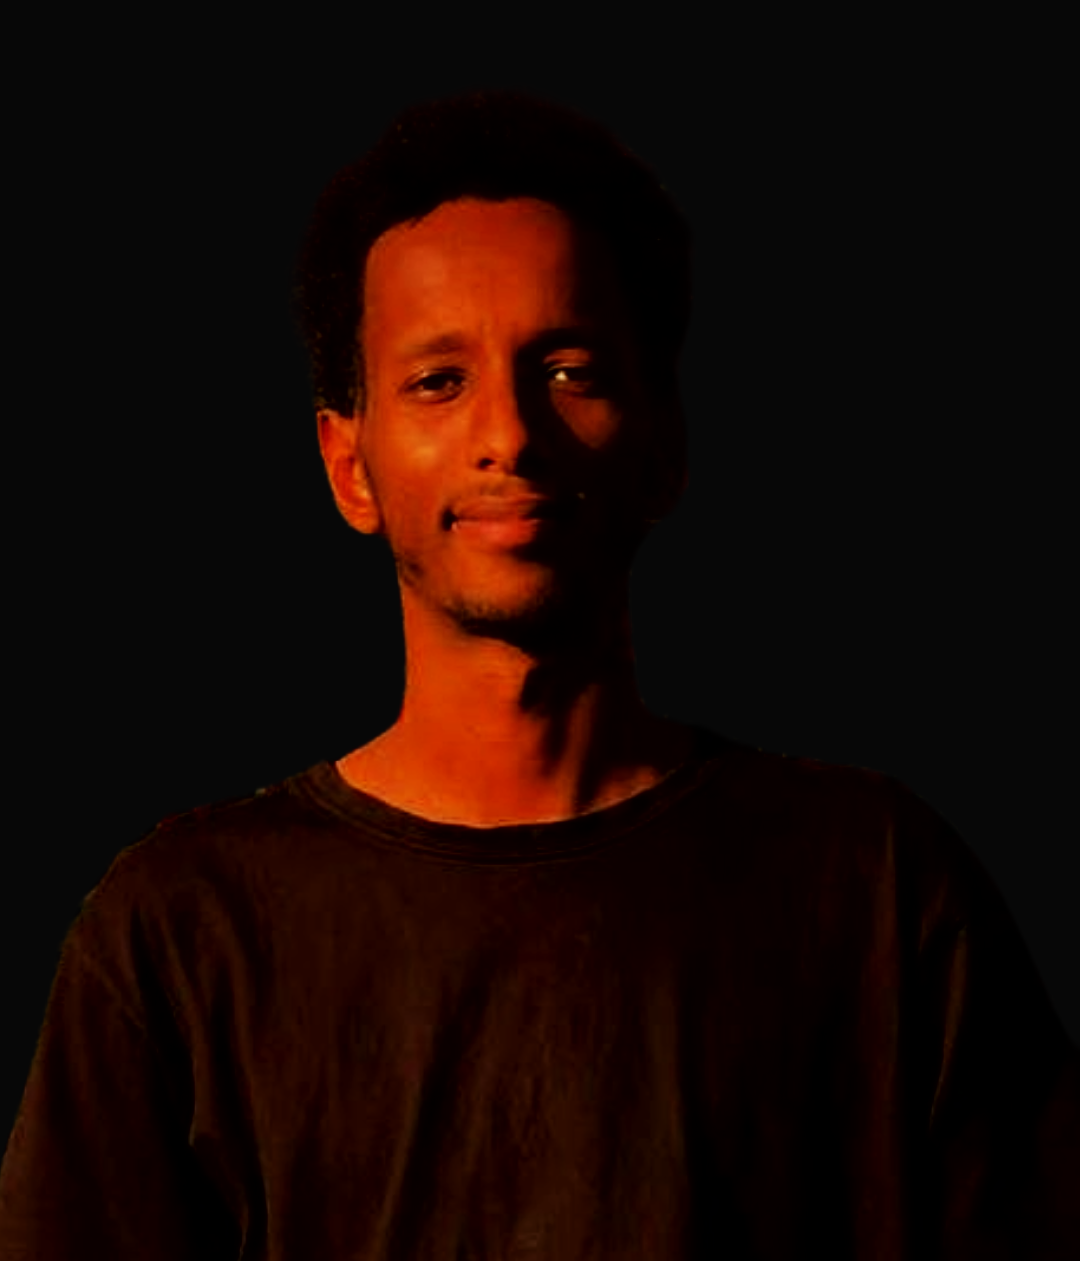
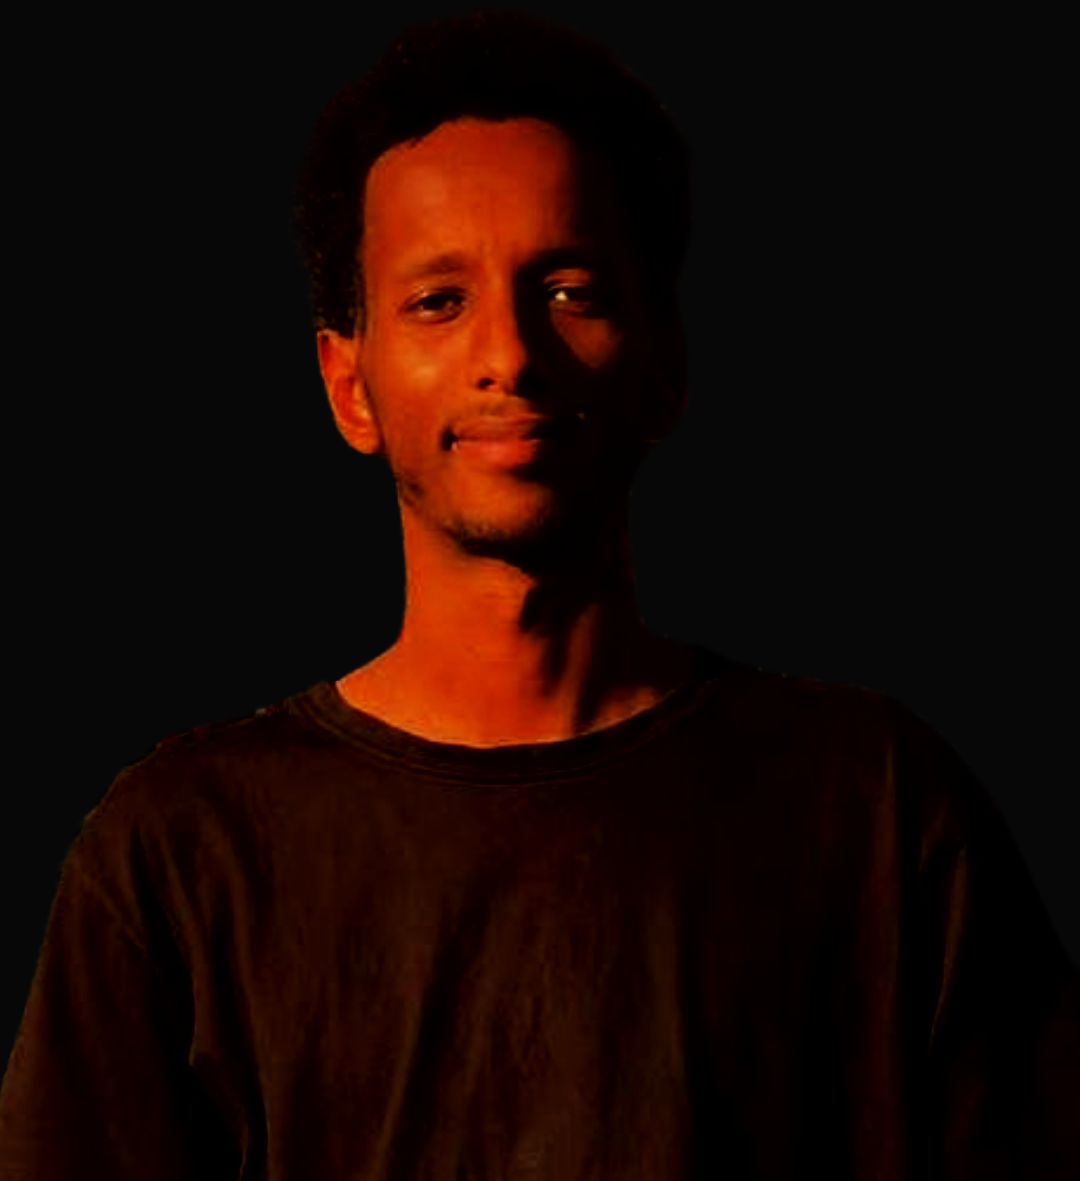
Finished About page UI

Changed region(s): [[0.2444, 0.0914, 0.6111, 0.6706], [0.0611, 0.6401, 0.1528, 0.7316]]

diff --git a/src/components/About_body.js b/src/components/About_body.js
@@ -1,0 +1,46 @@
+import React from "react";
+import Square from "./sub-components/Square";
+import './css/About_body.css';
+import me from '../assets/images/me.png';
+
+function About_body() {
+    return(
+        <>
+            <div className="about-body">
+                <div className="about-title">
+                    <h1>About Me</h1>
+                </div>
+                <div className="about-content">
+                    <div className="about-box1">
+                        <div className="about-square_space">
+                            <div className="invisible"></div>
+                            <div className="invisible"></div>
+                            <Square/>
+                        </div>
+                        <div className="about-image">
+                            <img src={me} alt="Dagy's Picture"/>
+                        </div>
+                    </div>
+                    <div className="about-line"></div>
+                    <div className="about-box2">
+                        <div className="about-paragraph">
+                            <p>
+                            My name is Dagim Teshome, a passionate software developer based in Addis Ababa, Ethiopia.
+                            Currently, I am a third-year Software Engineering student at Bits College. I specialize in web
+                            development and have a strong interest in creating dynamic and user-friendly web applications.
+                            Outside of coding, I enjoy playing lead guitar, combining my technical and creative skills in both
+                            music and software development.
+                            <br/><br/>
+                            I am available for freelance. All you have to do is contact me here:
+                            </p>
+                        </div>
+                        <div className="about-button">
+                            <a href="/" >Contact<svg xmlns="http://www.w3.org/2000/svg" width="15px" viewBox="0 0 448 512"><path fill="#ffffff" d="M224 256A128 128 0 1 0 224 0a128 128 0 1 0 0 256zm-45.7 48C79.8 304 0 383.8 0 482.3C0 498.7 13.3 512 29.7 512H418.3c16.4 0 29.7-13.3 29.7-29.7C448 383.8 368.2 304 269.7 304H178.3z"/></svg></a>
+                        </div>
+                    </div>
+                </div>
+            </div>
+        </>
+    );
+}
+export default About_body;

diff --git a/src/components/Home_body.js b/src/components/Home_body.js
@@ -2,6 +2,7 @@ import React from "react";
 import './css/Home_body.css';
 import me from '../assets/images/me.png'
 import Square from "./sub-components/Square";
+import { FontAwesomeIcon } from "@fortawesome/react-fontawesome";
 
 function Home_body() {
     return(
@@ -24,7 +25,7 @@ function Home_body() {
                         </box>
                     </div>
                     <div className="item4">
-                    <i class="fa-solid fa-car"></i>
+                    <a href=""><svg xmlns="http://www.w3.org/2000/svg" width="35px" viewBox="0 0 496 512"><path fill="#ffff" d="M165.9 397.4c0 2-2.3 3.6-5.2 3.6-3.3 .3-5.6-1.3-5.6-3.6 0-2 2.3-3.6 5.2-3.6 3-.3 5.6 1.3 5.6 3.6zm-31.1-4.5c-.7 2 1.3 4.3 4.3 4.9 2.6 1 5.6 0 6.2-2s-1.3-4.3-4.3-5.2c-2.6-.7-5.5 .3-6.2 2.3zm44.2-1.7c-2.9 .7-4.9 2.6-4.6 4.9 .3 2 2.9 3.3 5.9 2.6 2.9-.7 4.9-2.6 4.6-4.6-.3-1.9-3-3.2-5.9-2.9zM244.8 8C106.1 8 0 113.3 0 252c0 110.9 69.8 205.8 169.5 239.2 12.8 2.3 17.3-5.6 17.3-12.1 0-6.2-.3-40.4-.3-61.4 0 0-70 15-84.7-29.8 0 0-11.4-29.1-27.8-36.6 0 0-22.9-15.7 1.6-15.4 0 0 24.9 2 38.6 25.8 21.9 38.6 58.6 27.5 72.9 20.9 2.3-16 8.8-27.1 16-33.7-55.9-6.2-112.3-14.3-112.3-110.5 0-27.5 7.6-41.3 23.6-58.9-2.6-6.5-11.1-33.3 2.6-67.9 20.9-6.5 69 27 69 27 20-5.6 41.5-8.5 62.8-8.5s42.8 2.9 62.8 8.5c0 0 48.1-33.6 69-27 13.7 34.7 5.2 61.4 2.6 67.9 16 17.7 25.8 31.5 25.8 58.9 0 96.5-58.9 104.2-114.8 110.5 9.2 7.9 17 22.9 17 46.4 0 33.7-.3 75.4-.3 83.6 0 6.5 4.6 14.4 17.3 12.1C428.2 457.8 496 362.9 496 252 496 113.3 383.5 8 244.8 8zM97.2 352.9c-1.3 1-1 3.3 .7 5.2 1.6 1.6 3.9 2.3 5.2 1 1.3-1 1-3.3-.7-5.2-1.6-1.6-3.9-2.3-5.2-1zm-10.8-8.1c-.7 1.3 .3 2.9 2.3 3.9 1.6 1 3.6 .7 4.3-.7 .7-1.3-.3-2.9-2.3-3.9-2-.6-3.6-.3-4.3 .7zm32.4 35.6c-1.6 1.3-1 4.3 1.3 6.2 2.3 2.3 5.2 2.6 6.5 1 1.3-1.3 .7-4.3-1.3-6.2-2.2-2.3-5.2-2.6-6.5-1zm-11.4-14.7c-1.6 1-1.6 3.6 0 5.9 1.6 2.3 4.3 3.3 5.6 2.3 1.6-1.3 1.6-3.9 0-6.2-1.4-2.3-4-3.3-5.6-2z"/></svg></a>
                     <a href="/">Github link</a>
                     </div>
                 </div>

diff --git a/src/components/css/About_body.css b/src/components/css/About_body.css
@@ -1,0 +1,103 @@
+.about-body {
+    width: 100%;
+    background-color: #070707;
+    height: 70vh;
+    display: flex;
+    align-items: flex-start;
+    flex-direction: column;
+}
+.about-title {
+    width: 100%;
+    height: 20%;
+    color: white;
+    display: flex;
+    justify-content: center;
+    align-items: center;
+}
+.about-title h1 {
+    font-size: 45px;
+}
+.about-content {
+    width: 100%;
+    height: 80%;
+    display: flex;
+    justify-content: space-around;
+}
+.about-box1 {
+    width: 45%;
+    height: 100%;
+    display: flex;
+    justify-content: center;
+    align-items: end;
+    flex-direction: column;
+}
+.about-box2 {
+    width: 50%;
+    height: 100%;
+    display: flex;
+    justify-content: center;
+    flex-direction: column;
+}
+.about-box1 img {
+    height: 350px;
+}
+.about-square_space {
+    width: 100%;
+    height: 0%;
+    display: flex;
+    justify-content: space-around;
+    margin-right: 25px;
+}
+.about-square_space .invisible {
+    width: 40px;
+    height: 40px;
+    visibility: hidden;
+}
+.about-line {
+    height: 80%;
+    width: 2px;
+    background-color: white;
+}
+
+.about-image {
+    width: 100%;
+    height: 100%;
+    display: flex;
+    justify-content: center;
+    align-items: end;
+}
+
+.about-paragraph {
+    width: 90%;
+    height: 50%;
+    color: white;
+    display: flex;
+    align-items: flex-end;
+}
+.about-paragraph p {
+    font-size: 12px;
+    line-height: 20px;
+}
+.about-button {
+    width: 65%;
+    height: 25%;
+    display: flex;
+    justify-content: flex-end;
+    align-items: center;
+}
+.about-button a {
+    color: white;
+    text-decoration: none;
+    border: 1px solid #C34600;
+    padding: 10px 30px;
+    background-color: #C34600;
+    border-radius: 50px;
+}
+.about-button a:hover {
+    background-color: #ff5e00;
+    transition: 0.3s ease;
+    border-radius: 10px;
+}
+.about-button a svg {
+    margin-left: 4px;
+}

diff --git a/src/components/css/Home_body.css b/src/components/css/Home_body.css
@@ -42,9 +42,22 @@
     justify-content: center;
     align-items: end;
 }
+
 .col-1 .item2 h2 {
     border-left: 4px solid #C34600;
     padding: 8px;
+    animation: animation 3s linear ;
+}
+@keyframes animation {
+    0% {
+        transform: translateY(-100px);
+    }
+    50% {
+        transform: translateY(-30px);
+    }
+    100% {
+        transform: translateY(0px);
+    }
 }
 .col-1 .item2 h2 color {
     color: #C34600;
@@ -57,9 +70,55 @@
     justify-content: center;
     align-items: center;
 }
+.item3 h1 {
+    animation: animation-1 3s linear;
+}
+@keyframes animation-1 {
+    0% {
+        transform: translateX(-100px);
+    }
+    50% {
+        transform: translateX(-30px);
+    }
+    100% {
+        transform: translateX(0px);
+    }
+}
+.item3 p {
+    animation: animation-2 3s linear;
+}
+@keyframes animation-2 {
+    0% {
+        transform: translateX(100px);
+    }
+    50% {
+        transform: translateX(30px);
+    }
+    100% {
+        transform: translateX(0px);
+    }
+}
 .item4 i {
     color: white;
     font-size: 25px;
+}
+.item4 a {
+    margin-bottom: 5px;
+}
+.item4 svg {
+    animation: animation4 4s linear;
+    overflow: hidden;
+}
+@keyframes animation4 {
+    0% {
+        transform: translateY(300px);
+    }
+    50% {
+        transform: translateY(150px);
+    }
+    100% {
+        transform: translateY(0px);
+    }
 }
 .item3 box h1 {
     font-size: 45px;
@@ -73,7 +132,7 @@
 }
 .item4 {
     text-align: center;
-
+    overflow: hidden;
 }
 .item4 a {
     color: white;

diff --git a/src/components/Header.js b/src/components/Header.js
@@ -1,7 +1,22 @@
 import React from "react";
 import './css/Header.css';
 
-function Header() {
+function Header({props}) {
+    let project_active = '';
+    let skills_active = '';
+    let about_active = '';
+    let contact_acitve = '';
+
+    if (props == 'projects') {
+        project_active = 'active';
+    } else if (props == 'skills') {
+        skills_active = 'active';
+    } else if (props == 'about') {
+        about_active = 'active';
+    } else if (props == 'contact') {
+        contact_acitve = 'active';
+    }
+
     return(
         <>
             <div className="header">
@@ -9,10 +24,10 @@ function Header() {
                     <h2>Dagos</h2>
                 </div>
                 <div className="menu">
-                    <a href="/">Projects</a>
-                    <a href="/">Skills</a>
-                    <a href="/">About</a>
-                    <a href="/">Contact</a>
+                    <a className={project_active} href="/">Projects</a>
+                    <a className={skills_active} href="/">Skills</a>
+                    <a className={about_active} href="/">About</a>
+                    <a className={contact_acitve} href="/">Contact</a>
                 </div>
             </div>
         </>

diff --git a/src/App.css b/src/App.css
@@ -1,38 +1,5 @@
-.App {
-  text-align: center;
-}
-
-.App-logo {
-  height: 40vmin;
-  pointer-events: none;
-}
-
-@media (prefers-reduced-motion: no-preference) {
-  .App-logo {
-    animation: App-logo-spin infinite 20s linear;
-  }
-}
-
-.App-header {
-  background-color: #282c34;
-  min-height: 100vh;
-  display: flex;
-  flex-direction: column;
-  align-items: center;
-  justify-content: center;
-  font-size: calc(10px + 2vmin);
-  color: white;
-}
-
-.App-link {
-  color: #61dafb;
-}
-
-@keyframes App-logo-spin {
-  from {
-    transform: rotate(0deg);
-  }
-  to {
-    transform: rotate(360deg);
-  }
+*{ 
+  font-family: sans-serif;
+  margin: 0;
+  padding: 0;
 }

diff --git a/src/pages/About.js b/src/pages/About.js
@@ -1,0 +1,15 @@
+import React from "react";
+import Header from "../components/Header";
+import Footer from "../components/Footer";
+import About_body from "../components/About_body";
+function About() {
+    Header('about');
+    return(
+        <>
+           <Header/>
+            <About_body/>
+           <Footer/>
+        </>
+    );
+}
+export default About;

diff --git a/public/index.html b/public/index.html
@@ -27,7 +27,7 @@
       work correctly both with client-side routing and a non-root public URL.
       Learn how to configure a non-root public URL by running `npm run build`.
     -->
-    <title>React App</title>
+    <title>Portfolio | Dagim Teshome</title>
   </head>
   <body>
     <noscript>You need to enable JavaScript to run this app.</noscript>

diff --git a/src/App.js b/src/App.js
@@ -1,13 +1,11 @@
-import logo from './logo.svg';
 import './App.css';
 import Home from './pages/Home';
-import Footer from './components/Footer';
-import Header from './components/Header';
+import About from './pages/About';
 
 function App() {
   return (
       <>
-        <Home/>
+        <About/>
       </>
   );
 }

diff --git a/src/components/css/Header.css b/src/components/css/Header.css
@@ -21,6 +21,9 @@
     text-decoration: none;
     font-size: 12px;
 }
+.menu .active {
+    border-top: 1px solid white;
+}
 .logo h2 {
     font-size: 24px;
     position: relative;

diff --git a/src/components/Footer.js b/src/components/Footer.js
@@ -1,5 +1,6 @@
 import React from "react";
 import './css/Footer.css';
+import { FontAwesomeIcon } from "@fortawesome/react-fontawesome";
 
 function Footer() {
     return (
